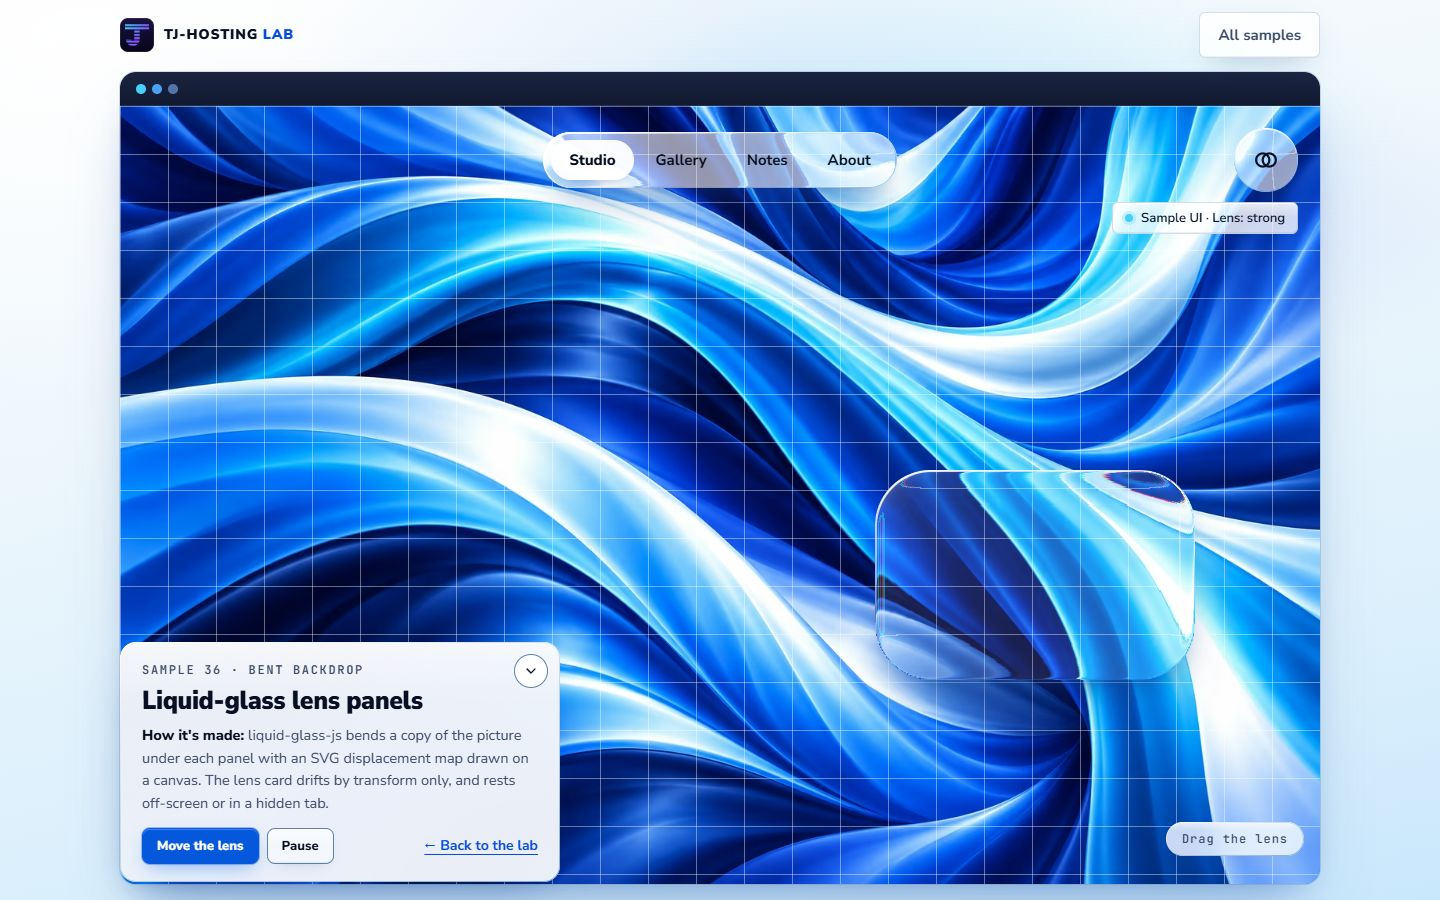
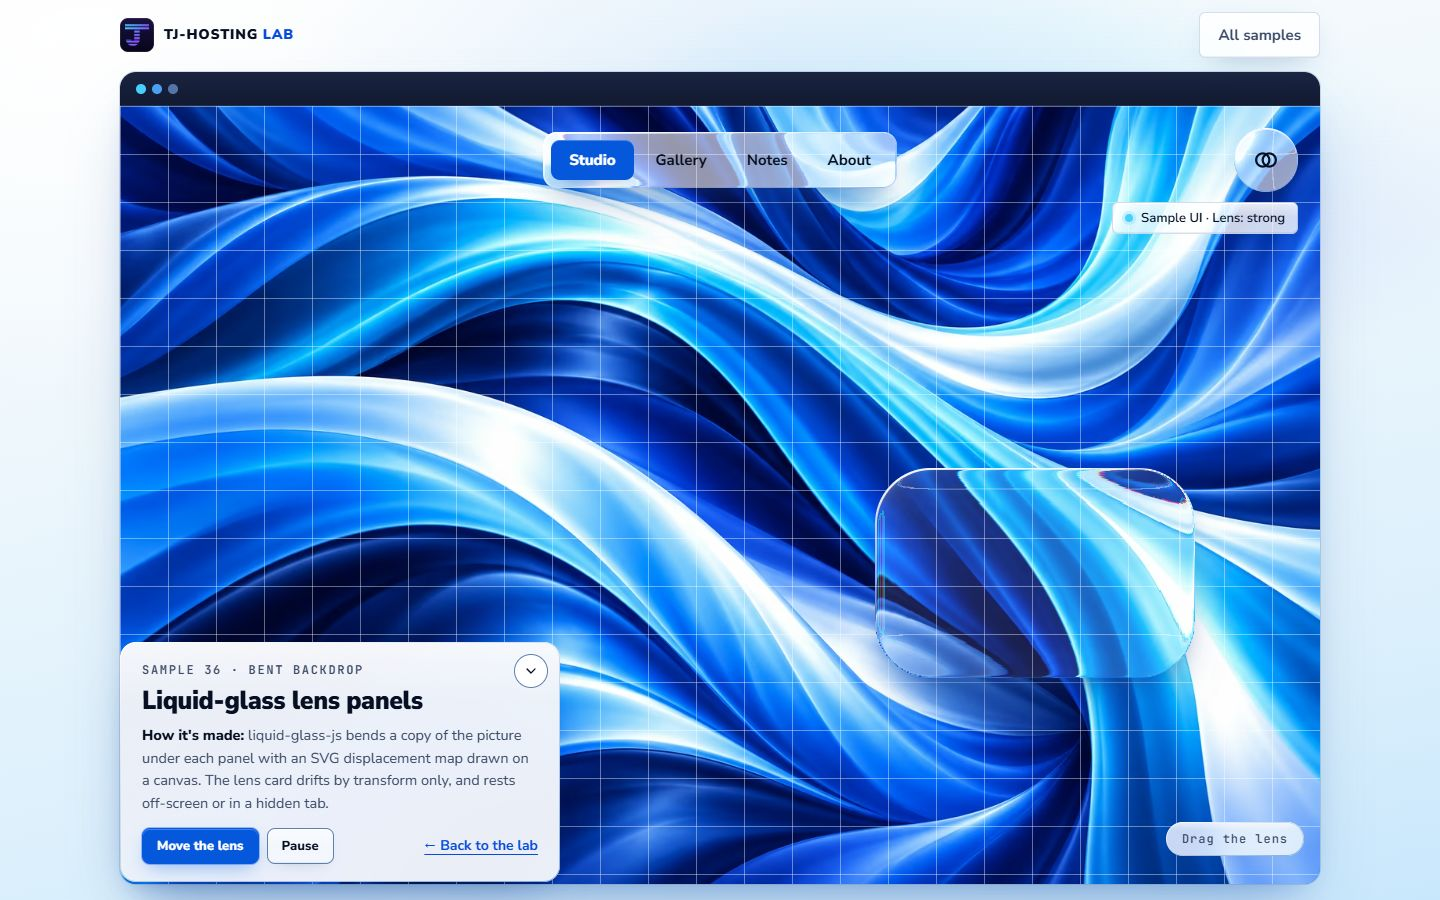
improve(lab-05): S33 sample menu in DS v9's nav shape
Per the blind review: the capsule tab bar with a white selected pill looked like another platform's kit. It is now a rounded rectangle, its lens shaped to match, with the chosen item filled royal. Re-gated: PASS, median 16.7 ms.

Changed region(s): [[0.5938, 0.4978, 0.8438, 0.56], [0.375, 0.1556, 0.4375, 0.2178], [0.7188, 0.7467, 0.75, 0.7778]]

diff --git a/samples/liquid-glass-lens/piece.js b/samples/liquid-glass-lens/piece.js
@@ -41,6 +41,7 @@ const backdrop = document.querySelector('.backdrop');
 const backdropImg = backdrop.querySelector('img');
 const navEl = document.getElementById('lens-nav');
 const roundEl = document.getElementById('lens-round');
+const NAV_RADIUS = 14; // the menu's lens matches its rounded rectangle (DS v9's nav shape)
 const stateEl = document.getElementById('lens-state');
 const stateText = document.getElementById('lens-state-text'); // the chip's words (its cyan dot stays)
 const cardEl = document.getElementById('lens-card'); // the plain frosted stand-in, shown only without the lenses
@@ -177,7 +178,7 @@ function layout(force = false) {
 	layoutKey = key;
 	if (mode === 'on' && changed) {
 		const { pill, round, card } = lenses;
-		Object.assign(pill.params, { width: nav.width, height: nav.height, radius: nav.height / 2 });
+		Object.assign(pill.params, { width: nav.width, height: nav.height, radius: NAV_RADIUS });
 		Object.assign(round.params, { width: rnd.width, height: rnd.height, radius: rnd.width / 2 });
 		Object.assign(card.params, { width: size.w, height: size.h, radius: size.r });
 		pill.lensX = nav.left;
@@ -277,7 +278,7 @@ function makeLenses() {
 		built.push(g);
 		return g;
 	};
-	const pill = make({ draggable: false, zIndex: 6, x: nav.left, y: nav.top, width: nav.width, height: nav.height, radius: nav.height / 2, scale: 26, depth: 24, curvature: 2.2, chroma: 0.09, edge: 0.55, tint: 0.58 });
+	const pill = make({ draggable: false, zIndex: 6, x: nav.left, y: nav.top, width: nav.width, height: nav.height, radius: NAV_RADIUS, scale: 26, depth: 24, curvature: 2.2, chroma: 0.09, edge: 0.55, tint: 0.58 });
 	const round = make({ draggable: false, zIndex: 6, x: rnd.left, y: rnd.top, width: rnd.width, height: rnd.height, radius: rnd.width / 2, scale: 24, depth: 26, curvature: 2.2, chroma: 0.09, edge: 0.55, tint: 0.58 });
 	const card = make({ draggable: true, zIndex: 4, x, y, width: size.w, height: size.h, radius: size.r, ...PRESETS[presetIndex] });
 	adopt(pill);

diff --git a/samples/liquid-glass-lens/piece.css b/samples/liquid-glass-lens/piece.css
@@ -73,7 +73,7 @@
 	position: relative;
 	display: block;
 	padding: 10px 18px;
-	border-radius: 999px;
+	border-radius: 9px;
 	color: var(--ink);
 	font: 700 15px/20px var(--font-sans);
 	text-decoration: none;
@@ -86,14 +86,14 @@
 	inset: 0;
 	z-index: -1;
 	border-radius: inherit;
-	background: var(--lens-hi);
-	box-shadow: 0 0 0 1px var(--lens-hi-line), 0 8px 16px -10px rgba(22, 66, 140, 0.55);
+	background: var(--action);
+	box-shadow: inset 0 1px 0 rgba(255, 255, 255, 0.25), 0 8px 16px -10px rgba(22, 66, 140, 0.55);
 	opacity: 0;
 	transition: opacity 0.3s var(--ease-out);
 }
 .lens-pill a[aria-current="true"]::before { opacity: 1; }
-.lens-pill a[aria-current="true"] { font-weight: 800; }
-.lens-pill a:hover::before { opacity: 0.6; }
+.lens-pill a[aria-current="true"] { font-weight: 800; color: #fff; }
+.lens-pill a:hover { color: var(--accent-text); }
 .lens-pill a[aria-current="true"]:hover::before { opacity: 1; }
 .lens-pill a:focus-visible { outline: 3px solid var(--action); outline-offset: 0; }
 
@@ -190,3 +190,6 @@ body .lqg-glass:focus-visible { outline: 3px solid var(--action); outline-offset
 	background: linear-gradient(180deg, #1a2440, #111a30);
 	border-bottom: 1px solid #22304f;
 }
+
+/* lab-05 P5 review: the sample menu takes DS v9's nav shape (a rounded rectangle, the chosen item filled royal), not a capsule */
+.lens-pill.glass { border-radius: 14px; }

diff --git a/TASKS-lab-05.md b/TASKS-lab-05.md
@@ -177,7 +177,7 @@ One Opus 5.5 sub-agent, images only: tj-hosting.ca's DS v9 shots and banner, the
 3. (medium) icon-micro-set script-only heading in navy: **fixed 10:24Z**: a heavy sans line in ink with one script word in ink. The same rule (script in ink, as the home's lockup) applied to glass-hero-kit, request-in-ms and stacking-plan-cards, whose script word was royal.
 4. (medium) bento-grid flat line art; pricing plan glyphs: open.
 5. (low) four styles of sample/disclaimer chip: **fixed 10:33Z** for glass-hero-kit, integration-beams, liquid-hover-gallery, edge-network-globe (navy glass on its night window), liquid-glass-lens and dot-mesh-hero: all now the shared `.pill` with its cyan dot in sans (a grep of every sample's disclaimer labels found the other 20 already on it); bento-grid's follows after its fixer. In-art captions (split-flap board, card-flow meta, plate kickers) stay as they are.
-6. (low) in-art controls: pressed toggles **fixed 10:24Z** for every page in `css/lab.css` (ink text in a 2px royal ring, so only the primary is blue-filled); liquid-glass-lens's capsule tab bar: open.
+6. (low) in-art controls: pressed toggles **fixed 10:24Z** for every page in `css/lab.css` (ink text in a 2px royal ring, so only the primary is blue-filled); liquid-glass-lens's capsule tab bar: **fixed 10:35Z**: a 14px rounded rectangle (its lens too) with the chosen item filled royal and white text. Re-gated 16.7 ms.
 7. (low) two frame-bar colours: **fixed 10:24Z** for liquid-glass-lens (mid-dark art, now the navy bar); the white bar stays on day screens whose art is light.
 8. (low) back link inline on some phones, own line on others: **fixed 10:24Z** in `css/sample.css`: own line on every phone.
 9. (low) panel greys over dark windows: **fixed 10:24Z** in `css/sample.css`: the panel's tint is 0.97 white-blue (the reviewer sampled about #dee3ee over dark windows; sampled again over three: about #eaeef6).

diff --git a/evidence/lab-05/samples/liquid-glass-lens/check.md b/evidence/lab-05/samples/liquid-glass-lens/check.md
@@ -1,16 +1,17 @@
 # check-sample: liquid-glass-lens — PASS
 
-2026-10-28T10:32:13.165Z · Chromium WebGL: ANGLE (AMD, AMD Radeon (TM) Graphics (0x000015E7) Direct3D11 vs_5_0 ps_5_0, D3D11) · Firefox: not run (browserType.launch: spawn UNKNOWN)
+2026-10-28T10:35:02.737Z · Chromium WebGL: ANGLE (AMD, AMD Radeon (TM) Graphics (0x000015E7) Direct3D11 vs_5_0 ps_5_0, D3D11) · Firefox: not run (browserType.launch: spawn UNKNOWN)
 
 ## Notes
 - loads 9 local files: samples/liquid-glass-lens/index.html, css/glass.css, css/lab.css, css/sample.css, samples/liquid-glass-lens/piece.css, js/early.js, samples/liquid-glass-lens/piece.js, js/lab.js, vendor/liquid-glass-js@0.1.0/liquid-glass.esm.js
 - Chromium 141.0.7390.37, WebGL renderer: ANGLE (AMD, AMD Radeon (TM) Graphics (0x000015E7) Direct3D11 vs_5_0 ps_5_0, D3D11)
+- frame time: median 16.7 ms, p95 16.7 ms at 1440
 - Firefox: not run (browserType.launch: spawn UNKNOWN)
 
 ## Motion
 - reduced motion: {"anims":[],"loops":[],"rafPerSecond":0}
 - hidden tab: {"movingBefore":true,"hiddenRafIn1500ms":0,"hiddenAnims":[],"hiddenLoops":[],"resumed":true}
-- frame time: not measured (--no-perf)
+- frame time: {"median":16.7,"p95":16.7,"frames":301} (gpu GL)
 
 ## Shell contrast (Chromium)
 width | selector | # | polarity | text | worst behind | ratio | need
